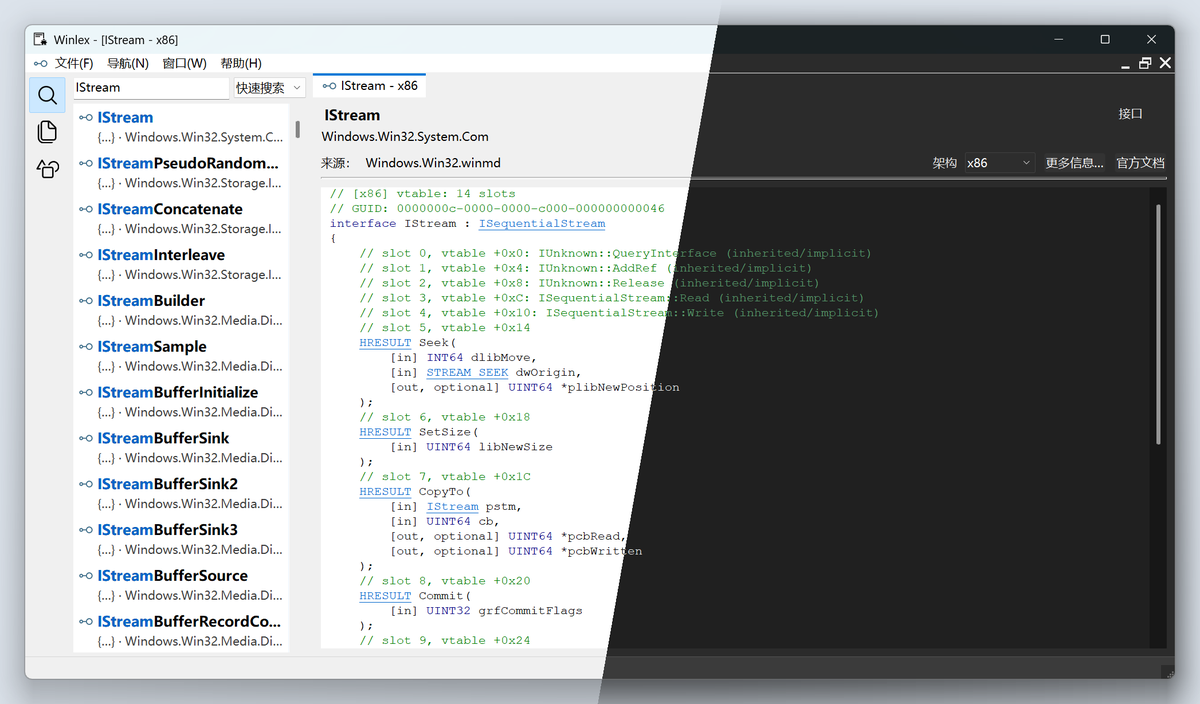
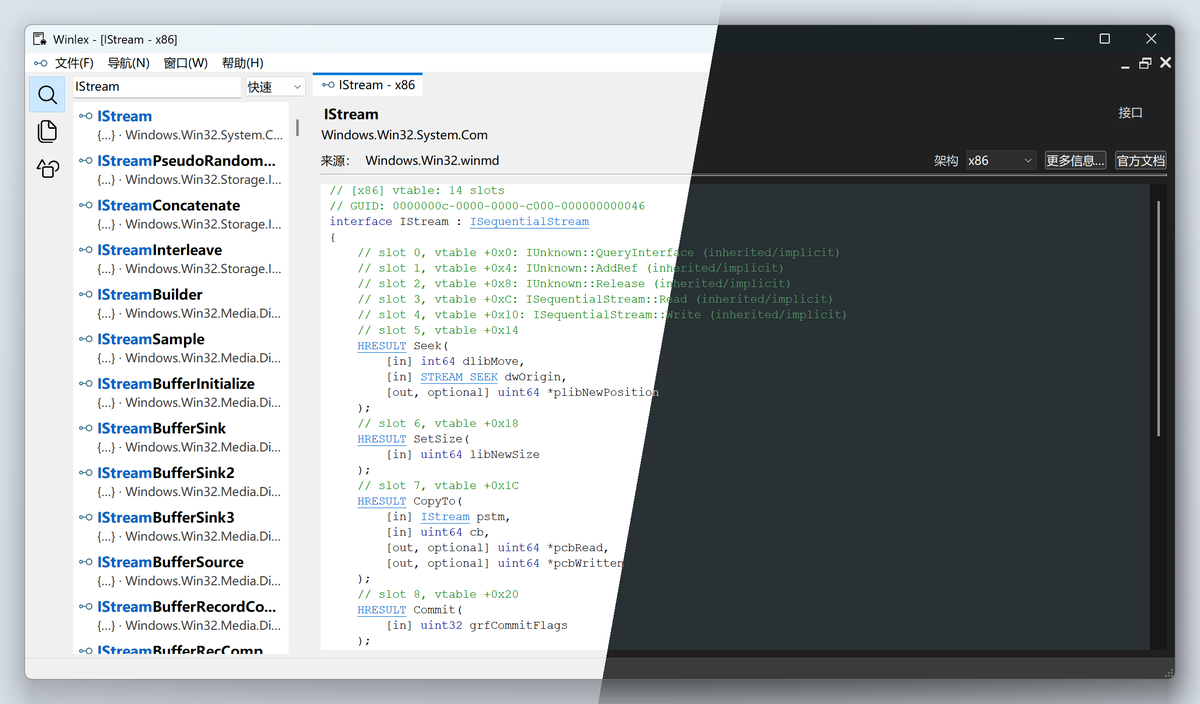
docs(readme): refresh demo images with 30 fps capture
- Regenerate the theme preview and workflow animation from the current GUI.

- Use reusable GDI capture surfaces and bounded asynchronous resizing to sustain a 30 fps recording cadence.

- Preserve playback timing with cumulative GIF delay rounding and establish window stacking before creating the capture backdrop.

diff --git a/scripts/readme-media.py b/scripts/readme-media.py
@@ -1,8 +1,10 @@
 """Capture README images on the current desktop; briefly takes over the keyboard and mouse."""
 import argparse
 import contextlib
+from concurrent.futures import ThreadPoolExecutor
 from datetime import datetime, timezone
 import math
+import json
 from pathlib import Path
 import sys
 import threading
@@ -14,9 +16,10 @@ import win32con
 import win32gui
 import win32process
 import winreg
+import win32ui
 
 import uiautomation as auto
-from PIL import Image, ImageChops, ImageDraw
+from PIL import Image, ImageDraw
 
 ROOT = Path(__file__).resolve().parents[1]
 sys.path.insert(0, str(ROOT / "tests/gui"))
@@ -105,17 +108,52 @@ def theme(app, mode):
 
 def record(rect, stop, frames, timestamps, errors):
     try:
-        with auto.UIAutomationInitializerInThread():
+        # Keep screen capture separate from image resizing so high-DPI
+        # downsampling does not block the 30 fps capture cadence.
+        # UIAutomation's bitmap conversion is too slow for 30 fps at high DPI.
+        left, top, width, height = rect
+        ratio = min(1, 1000 / width, 760 / height)
+        size = (round(width * ratio), round(height * ratio))
+        screen_handle = win32gui.GetDC(0)
+        screen = win32ui.CreateDCFromHandle(screen_handle)
+        source = screen.CreateCompatibleDC()
+        bitmap = win32ui.CreateBitmap()
+        bitmap.CreateCompatibleBitmap(screen, width, height)
+        previous_source = source.SelectObject(bitmap)
+        def resize_frame(pixels):
+            image = Image.frombytes("RGB", (width, height), pixels, "raw", "BGRX")
+            return image.resize(size, Image.Resampling.LANCZOS)
+        pool = ThreadPoolExecutor(max_workers=2)
+        pending = []
+        try:
             while not stop.is_set():
+                # Bound queued full-resolution images if conversion falls behind.
+                if len(pending) >= 4:
+                    pending[-4].result()
                 started = time.monotonic()
-                image = capture(rect, cursor=True)
-                image.thumbnail((1000, 760), Image.Resampling.LANCZOS)
-                if frames and not ImageChops.difference(image, frames[-1]).getbbox():
-                    timestamps[-1] = started
-                else:
-                    frames.append(image)
-                    timestamps.append(started)
-                stop.wait(max(0, .1 - (time.monotonic() - started)))
+                source.BitBlt((0, 0), (width, height), screen, (left, top), win32con.SRCCOPY)
+                flags, cursor, point = win32gui.GetCursorInfo()
+                if flags & win32con.CURSOR_SHOWING:
+                    _, hot_x, hot_y, mask, color = win32gui.GetIconInfo(cursor)
+                    try:
+                        win32gui.DrawIconEx(source.GetSafeHdc(), point[0] - left - hot_x,
+                                            point[1] - top - hot_y, cursor, 0, 0, 0, 0,
+                                            win32con.DI_NORMAL)
+                    finally:
+                        for handle in (mask, color):
+                            if handle:
+                                win32gui.DeleteObject(handle)
+                pending.append(pool.submit(resize_frame, bitmap.GetBitmapBits(True)))
+                timestamps.append(started)
+                deadline = timestamps[0] + len(timestamps) / 30
+                stop.wait(max(0, deadline - time.monotonic()))
+            frames.extend(frame.result() for frame in pending)
+        finally:
+            pool.shutdown(wait=True)
+            source.SelectObject(previous_source)
+            source.DeleteDC()
+            win32gui.DeleteObject(bitmap.GetHandle())
+            win32gui.ReleaseDC(0, screen_handle)
     except Exception:
         errors.append(traceback.format_exc())
 
@@ -124,15 +162,15 @@ def generate(args, app, scale, evidence):
     auto.ControlFromHandle(app.frame).MoveWindow(
         round(100 * scale), round(70 * scale), round(1160 * scale), round(660 * scale))
     activate(app, args.exe)
+    if not win32gui.GetWindowLong(app.frame, win32con.GWL_EXSTYLE) & win32con.WS_EX_TOPMOST:
+        app.command(1010)  # Set Always on top before the backdrop takes activation.
     backdrop = tk.Tk()
     backdrop.overrideredirect(True)
     backdrop.configure(background="#dce3eb")
-    backdrop.attributes("-topmost", True)
     backdrop.geometry(f"{backdrop.winfo_screenwidth()}x{backdrop.winfo_screenheight()}+0+0")
     backdrop.update()
     try:
-        win32gui.SetWindowPos(app.frame, win32con.HWND_TOPMOST, 0, 0, 0, 0,
-                              win32con.SWP_NOMOVE | win32con.SWP_NOSIZE | win32con.SWP_NOACTIVATE)
+        focus_window(app.frame)
         point = win32gui.ClientToScreen(app.frame, (300, 300))
         if win32process.GetWindowThreadProcessId(win32gui.WindowFromPoint(point))[1] != app.process.pid:
             raise RuntimeError("Application window is not above the backdrop")
@@ -162,6 +200,7 @@ def generate(args, app, scale, evidence):
         auto.SendKeys("{Ctrl}a{Delete}")
         n.wait(lambda: app.count() == 0, "empty results")
         frames, timestamps, errors = [], [], []
+        recording_started = time.monotonic()
         stop = threading.Event()
         recorder = threading.Thread(target=record, args=(rect, stop, frames, timestamps, errors))
         recorder.start()
@@ -185,11 +224,20 @@ def generate(args, app, scale, evidence):
         finally:
             stop.set()
             recorder.join()
+        recording_ended = time.monotonic()
         if errors:
             raise RuntimeError("\n".join(errors))
         palette = light.resize(frames[0].size).quantize(colors=256)
         indexed = [image.quantize(palette=palette, dither=Image.Dither.NONE) for image in frames]
-        durations = [max(30, round((b - a) * 1000)) for a, b in zip(timestamps, timestamps[1:])] + [900]
+        # GIF delays are centiseconds. Quantize cumulative timestamps so
+        # 30 fps alternates 30/40 ms instead of accumulating rounding drift.
+        ticks = [round((stamp - timestamps[0]) * 100) for stamp in timestamps]
+        ticks.append(round((recording_ended - timestamps[0]) * 100) + 90)
+        durations = [max(10, (b - a) * 10) for a, b in zip(ticks, ticks[1:])]
+        (evidence / "timing.json").write_text(json.dumps({
+            "target_fps": 30, "recording_seconds": recording_ended - recording_started,
+            "frame_timestamps": timestamps, "gif_durations_ms": durations,
+        }, indent=2), encoding="utf-8")
         indexed[0].save(args.output / "workflow.gif", save_all=True, append_images=indexed[1:],
                         duration=durations, loop=0, optimize=True, disposal=1)
     except Exception:
